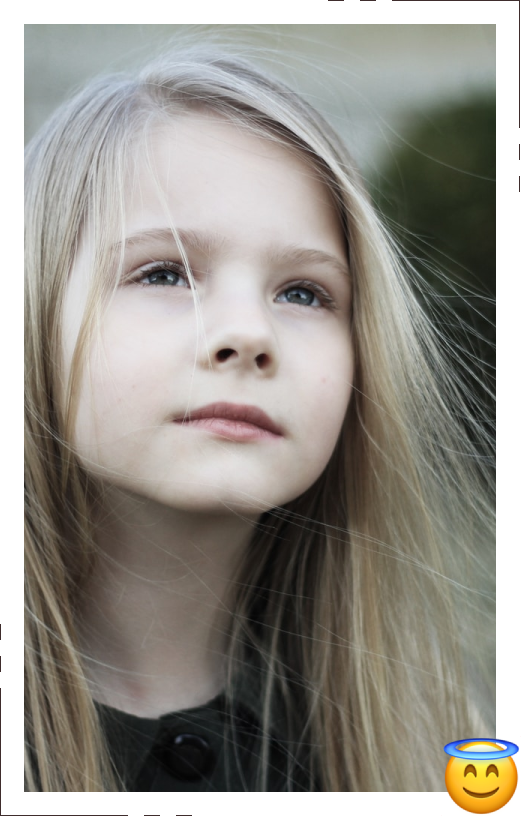
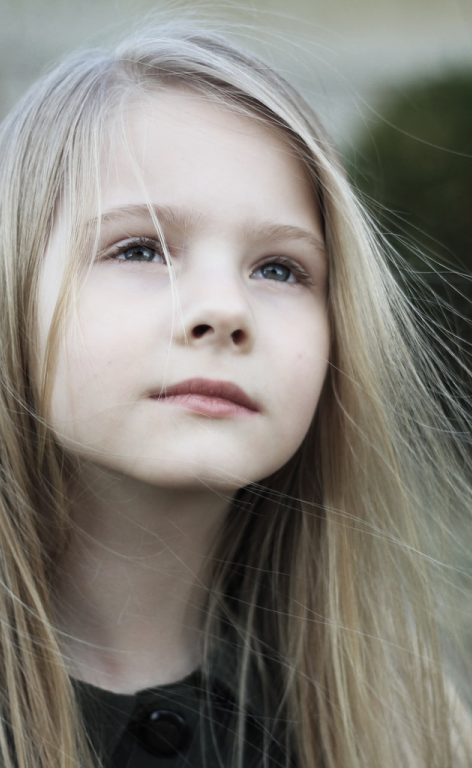
*Fix second block *New images for second block animation

diff --git a/components/DDBSecondBlock.vue b/components/DDBSecondBlock.vue
@@ -1,11 +1,14 @@
 <template>
   <div class="ddb-second-block">
     <div class="ddb-second-block-photo">
-      <img src="/images/ui-elements/photo.png" alt="photo">
+      <img src="/images/ui-elements/bottom-left-frame.png" alt="bottom-left-frame" class="bottom-left-frame">
+      <img src="/images/ui-elements/top-right-frame.png" alt="top-right-frame" class="top-right-frame">
+      <img src="/images/ui-elements/smile.svg" alt="smile" class="smile">
+      <img src="/images/ui-elements/photo.png" alt="photo" class="photo">
     </div>
     <div class="ddb-second-block__container">
       <div class="ddb-second-block__element__heading">
-        <h2 class="ddb-second-block__element__heading__text">Всем привет!</h2>
+        <h3 class="ddb-second-block__element__heading__text">Всем привет!</h3>
         <img src="/images/ui-elements/smile.png" class="ddb-second-block__element__heading__smile" alt="smile">
       </div>
       <div class="ddb-second-block__element">
@@ -26,7 +29,8 @@
       </div>
       <div class="ddb-second-block__element__last">
         <h3 class="ddb-second-block__element__last__text">Оценить работы</h3>
-        <img src="/images/ui-elements/second-block-line.png" class="ddb-second-block__element__last__line" alt="second-block">
+        <img src="/images/ui-elements/second-block-line.png" class="ddb-second-block__element__last__line"
+             alt="second-block">
       </div>
     </div>
   </div>
@@ -47,49 +51,89 @@
 
   .ddb-second-block-photo {
     margin: 30px;
+    position: relative;
+    width: 472px;
+    height: 768px;
+  }
+
+  .bottom-left-frame {
+    position: absolute;
+    left: -23px;
+    bottom: -23px;
+  }
+
+  .top-right-frame {
+    position: absolute;
+    right: -23px;
+    top: -23px;
+  }
+
+  .smile {
+    position: absolute;
+    right: -23px;
+    bottom: -23px;
+    width: 80px;
+    height: 80px;
+  }
+
+  .photo {
   }
 
   .ddb-second-block__container {
+    text-align: left;
     width: 100%;
     display: flex;
     flex-direction: column;
   }
 
   .ddb-second-block__element {
-    margin: 20px;
+    margin: 4px;
     display: flex;
-    text-align: left;
-    font-size: 24px;
-    line-height: 50px;
+    font-style: normal;
+    font-weight: normal;
+    font-size: 14px;
+    line-height: 24px;
+    align-items: center;
   }
 
   .ddb-second-block__element__heading {
     display: flex;
-    justify-content: center;
+    font-size: 21px;
+    line-height: 24px;
     align-items: center;
   }
-
-  .ddb-second-block__element__heading__text {
-    font-size: 30px;
-    margin: 20px;
+  .ddb-second-block__element__heading__text{
+    font-weight: 600;
+  }
+  .ddb-second-block__element__heading__smile {
+    width: 20px;
+    height: 20px;
   }
 
   .ddb-second-block__element__last {
-    text-align: left;
     margin: 20px;
+    width: 216px;
+    height: 48px;
   }
 
   .ddb-second-block__element__last__text {
     margin: 0;
-    font-size: 40px;
+    width: 216px;
+    height: 48px;
+    font-weight: 600;
+    font-size: 20px;
+    line-height: 48px;
   }
 
   .ddb-second-block__element__last__line {
-    width: 45%;
+    margin: 0;
+    width: 80%;
   }
 
+
+
   @include for-desktop-up {
-    .ddb-second-block{
+    .ddb-second-block {
       padding-top: 80px;
     }
   }
@@ -98,8 +142,17 @@
     .ddb-second-block__element__heading__smile {
       display: none;
     }
+
     .ddb-second-block__element {
-      line-height: normal;
+      margin: 10px;
+      font-weight: normal;
+      font-size: 20px;
+      line-height: 40px;
+    }
+    .ddb-second-block__element__heading {
+      display: flex;
+      font-size: 42px;
+      line-height: 48px;
     }
   }
 
